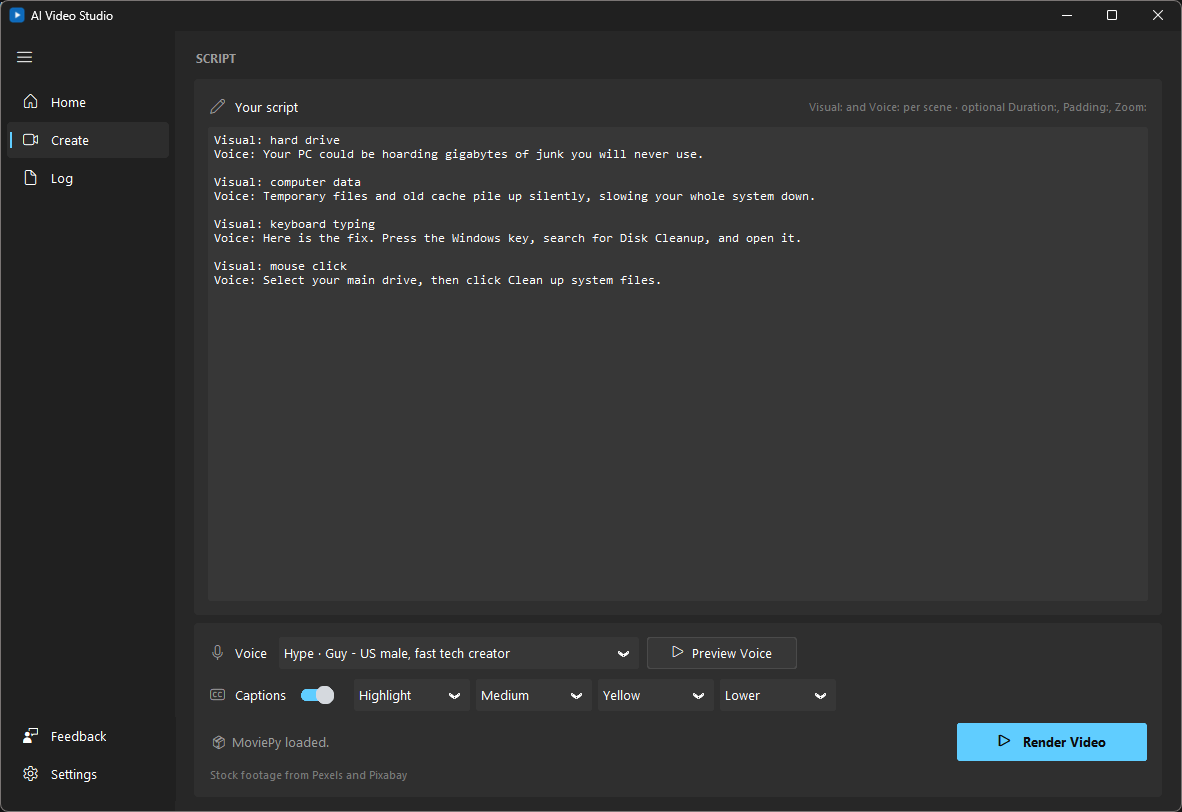
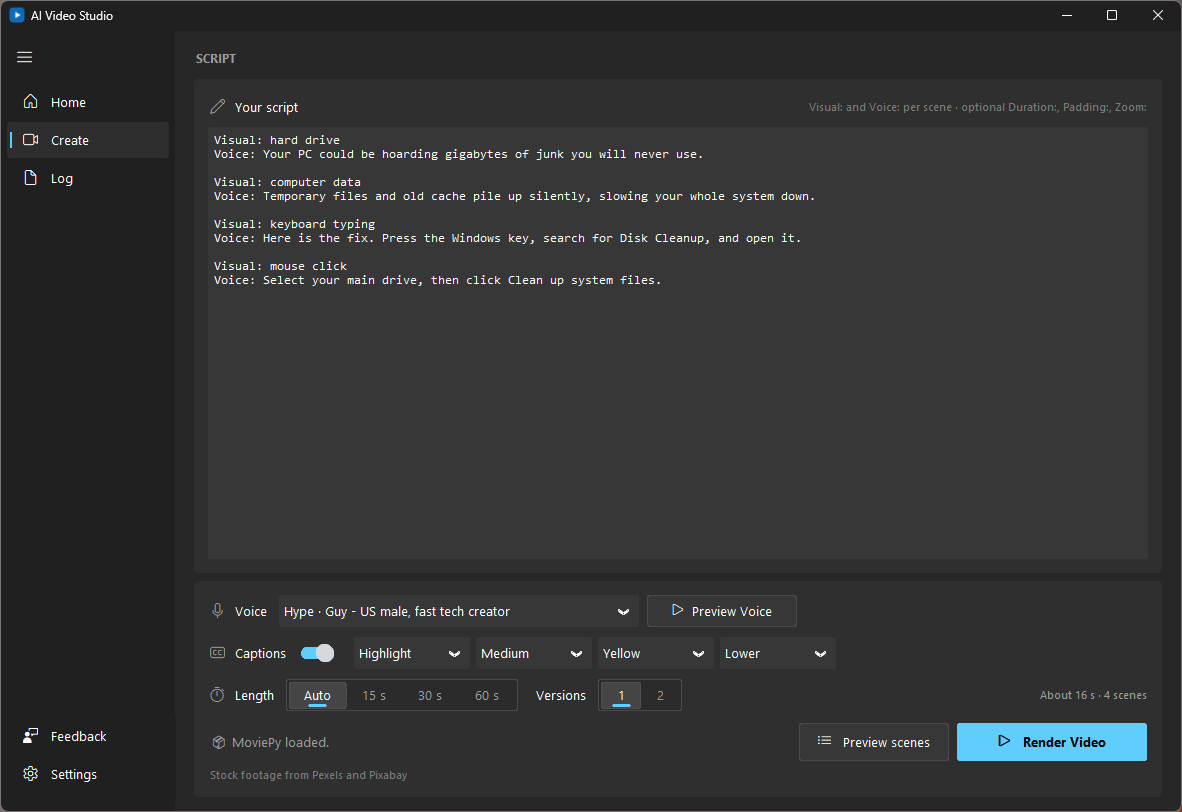
3.6.0: README, screenshots, smaller Pixabay stills

diff --git a/tests/test_footage.py b/tests/test_footage.py
@@ -316,7 +316,7 @@ def test_pixabay_candidates_carry_a_rendition_thumbnail():
         "large": {"url": "https://p/l.mp4", "width": 1920, "height": 1080, "thumbnail": "https://t/l.jpg"},
         "tiny": {"url": "https://p/t.mp4", "width": 640, "height": 360, "thumbnail": "https://t/t.jpg"}}}]}
     (clip,) = parse_pixabay(data, 1920, 1080)
-    assert clip.thumb in ("https://t/l.jpg", "https://t/t.jpg")
+    assert clip.thumb == "https://t/t.jpg"   # the smallest: the large one is over a megabyte
 
 
 def test_results_without_a_picture_still_parse():

diff --git a/README.md b/README.md
@@ -13,7 +13,10 @@ voiceover, and renders a 1080p or 720p MP4 in portrait or landscape.
 ![Home](docs/home.png)
 
 ## Features
-- **Automated Stock Footage:** Automatically fetches relevant video clips from Pexels API.
+- **Automated Stock Footage:** Automatically fetches relevant video clips from Pexels or Pixabay.
+- **Preview and choose your clips:** See the clip picked for each scene before rendering, and swap any you don't like with one click.
+- **Two versions in one go:** Optionally render the same script twice with different clips, and keep the better one.
+- **Pick a length:** Fit the video to 15, 30 or 60 seconds, with a live estimate as you type.
 - **Neural AI Voices:** Uses Microsoft Edge-TTS for high-quality, natural-sounding male and female voices.
 - **Smart Script Parser:** Automatically reads your script line-by-line using `Visual:` and `Voice:` tags.
 - **Windows 11 Fluent interface:** Settings-app style segmented controls, smooth page transitions, dark and light themes with Mica, and live render progress.
@@ -47,7 +50,7 @@ You can confirm you have the real file by checking its hash against
 `SHA256SUMS.txt` on the release page:
 
 ```powershell
-Get-FileHash .\AIVideoStudio-3.5.0-setup.exe -Algorithm SHA256
+Get-FileHash .\AIVideoStudio-3.6.0-setup.exe -Algorithm SHA256
 ```
 
 ## First run
@@ -153,6 +156,44 @@ commas and full stops, then broadcast mastering — low-end warmth, compression
 so every word is audible, and loudness set to −14 LUFS, the level YouTube
 Shorts, Reels and TikTok play at.
 
+### Choosing your clips
+
+Press **Preview scenes** on the Create page to see the clip the app picked for
+each scene, next to the line spoken over it. **Try another** steps through up to
+six clips for that scene. When they all look right, press **Render with these
+clips**. If you close the window instead, **Render Video** still uses your
+choices, until you edit the script.
+
+A long voice line uses two clips: the preview chooses the first, and the second
+is the next clip in the list.
+
+![Preview scenes](docs/preview.png)
+
+### Two versions
+
+Set **Versions** to `2` and the app renders the script twice: the same voice and
+captions, different clips in every stock scene. They are saved as `name.mp4` and
+`name (version 2).mp4`, each with its own subtitles and credits file, and the
+Render complete window lets you play both. The voice is made once, so two
+versions take well under twice as long as one.
+
+### Video length
+
+The Create page shows about how long your script will be, and updates as you
+type. It is an estimate: the voice paces every line a little differently.
+
+Set **Length** to `15 s`, `30 s` or `60 s` to fit the video to that length. The
+app adjusts the pauses between scenes first. If that is not enough, it speeds
+the voice up or slows it down by at most 15%, keeping its pitch, and the
+captions follow. A script that is far too long or too short is rendered as
+close as it gets, and the Log tells you roughly how many words to cut or add.
+Scenes with their own `Duration:` or `Padding:` line are left exactly as written.
+
+### Stopping a render
+
+While a video is rendering, the Render button becomes **Cancel**. The render
+stops within a second or two and leaves no unfinished file behind.
+
 ### Captions
 
 Captions are on by default: the words appear on screen as they are spoken, timed
@@ -180,6 +221,8 @@ description.
 | Resolution | `1080p` (8000k bitrate) or `720p` (5000k) |
 | Scene padding | `0s`, `0.25s` (default), `0.5s` or `1s` of pause after each voice line |
 | Voice | 16 free Microsoft Edge neural voices — see **Voices** below |
+| Length | `Auto` (default), or fit to `15 s`, `30 s` or `60 s` — see **Video length** below |
+| Versions | `1` (default) or `2`: the same video twice, with different clips |
 | Saving | **Ask where to save each video** (default): a Save window opens for every render, like a browser download. Off: videos go to the default path and are numbered `name (2).mp4`, `name (3).mp4`… so none is overwritten |
 | Captions | On or off. Style: `Highlight`, `One word` or `Plain`. Size: `Small`, `Medium`, `Large`. Highlight: yellow, green, cyan, pink, white or black. Position: `Lower`, `Center` or `Top` |
 | Background music | On or off, with any track; ducks under the voice automatically |
@@ -283,7 +326,7 @@ pip install -r requirements.txt -r requirements-build.txt
 python -m pytest
 python packaging/make_icon.py
 pyinstaller --noconfirm --clean packaging/ai_video_studio.spec
-"C:\Program Files (x86)\Inno Setup 6\ISCC.exe" /DMyAppVersion=3.5.0 packaging\installer.iss
+"C:\Program Files (x86)\Inno Setup 6\ISCC.exe" /DMyAppVersion=3.6.0 packaging\installer.iss
 ```
 
 Releases are built automatically by GitHub Actions when a `v*` tag is pushed.
